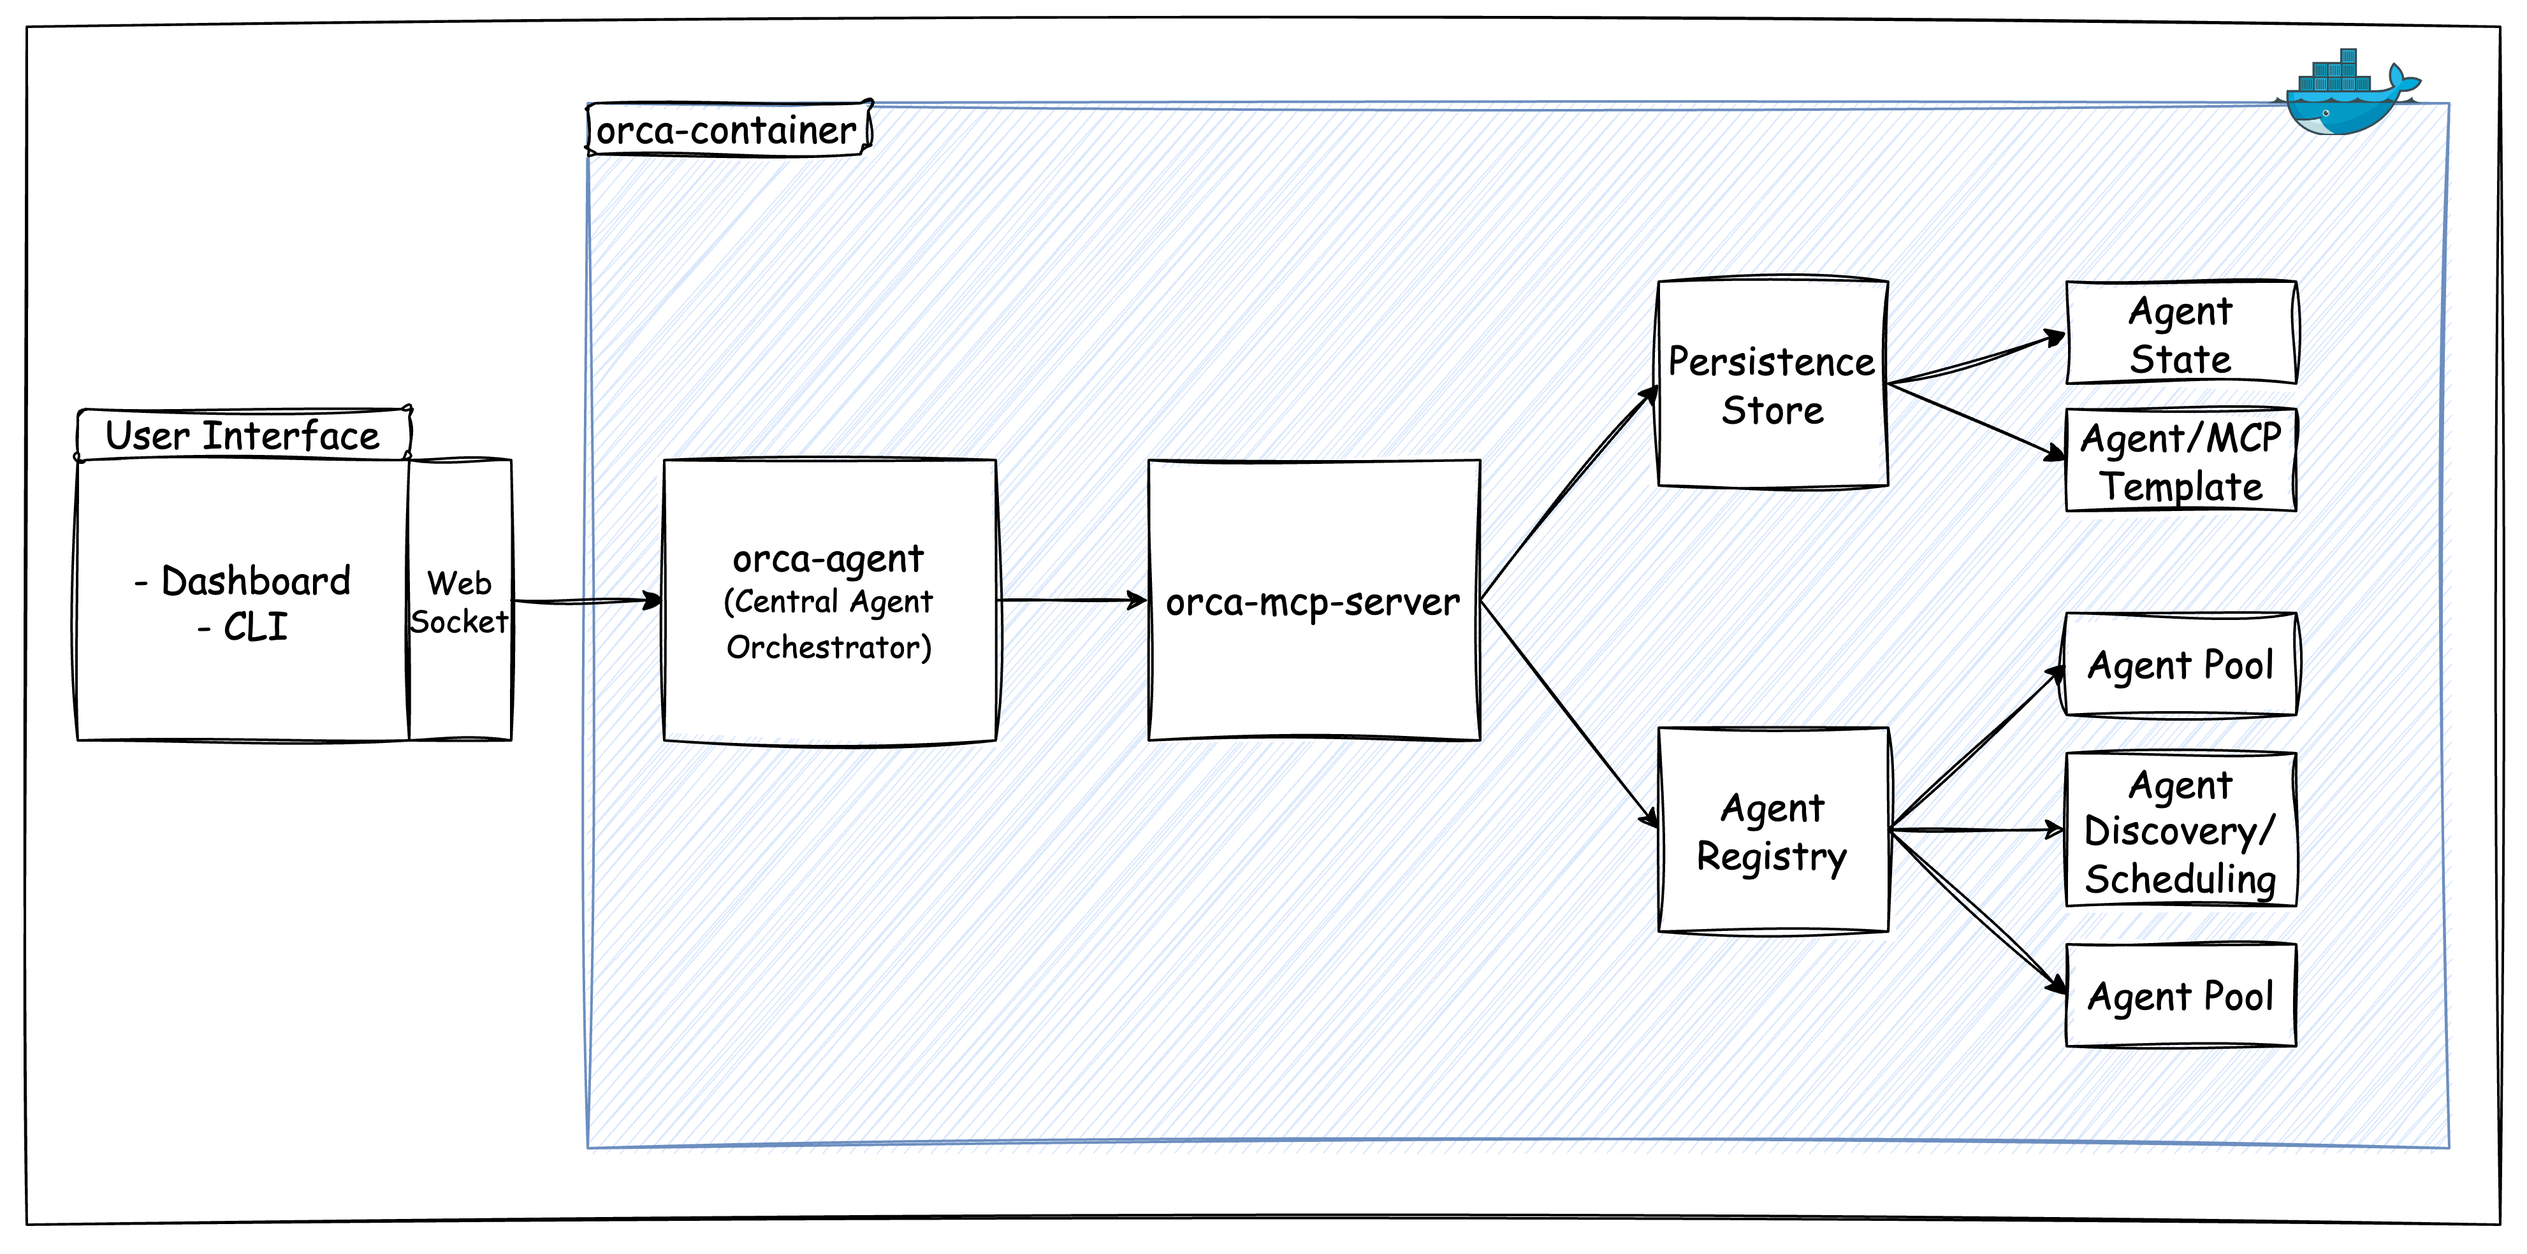
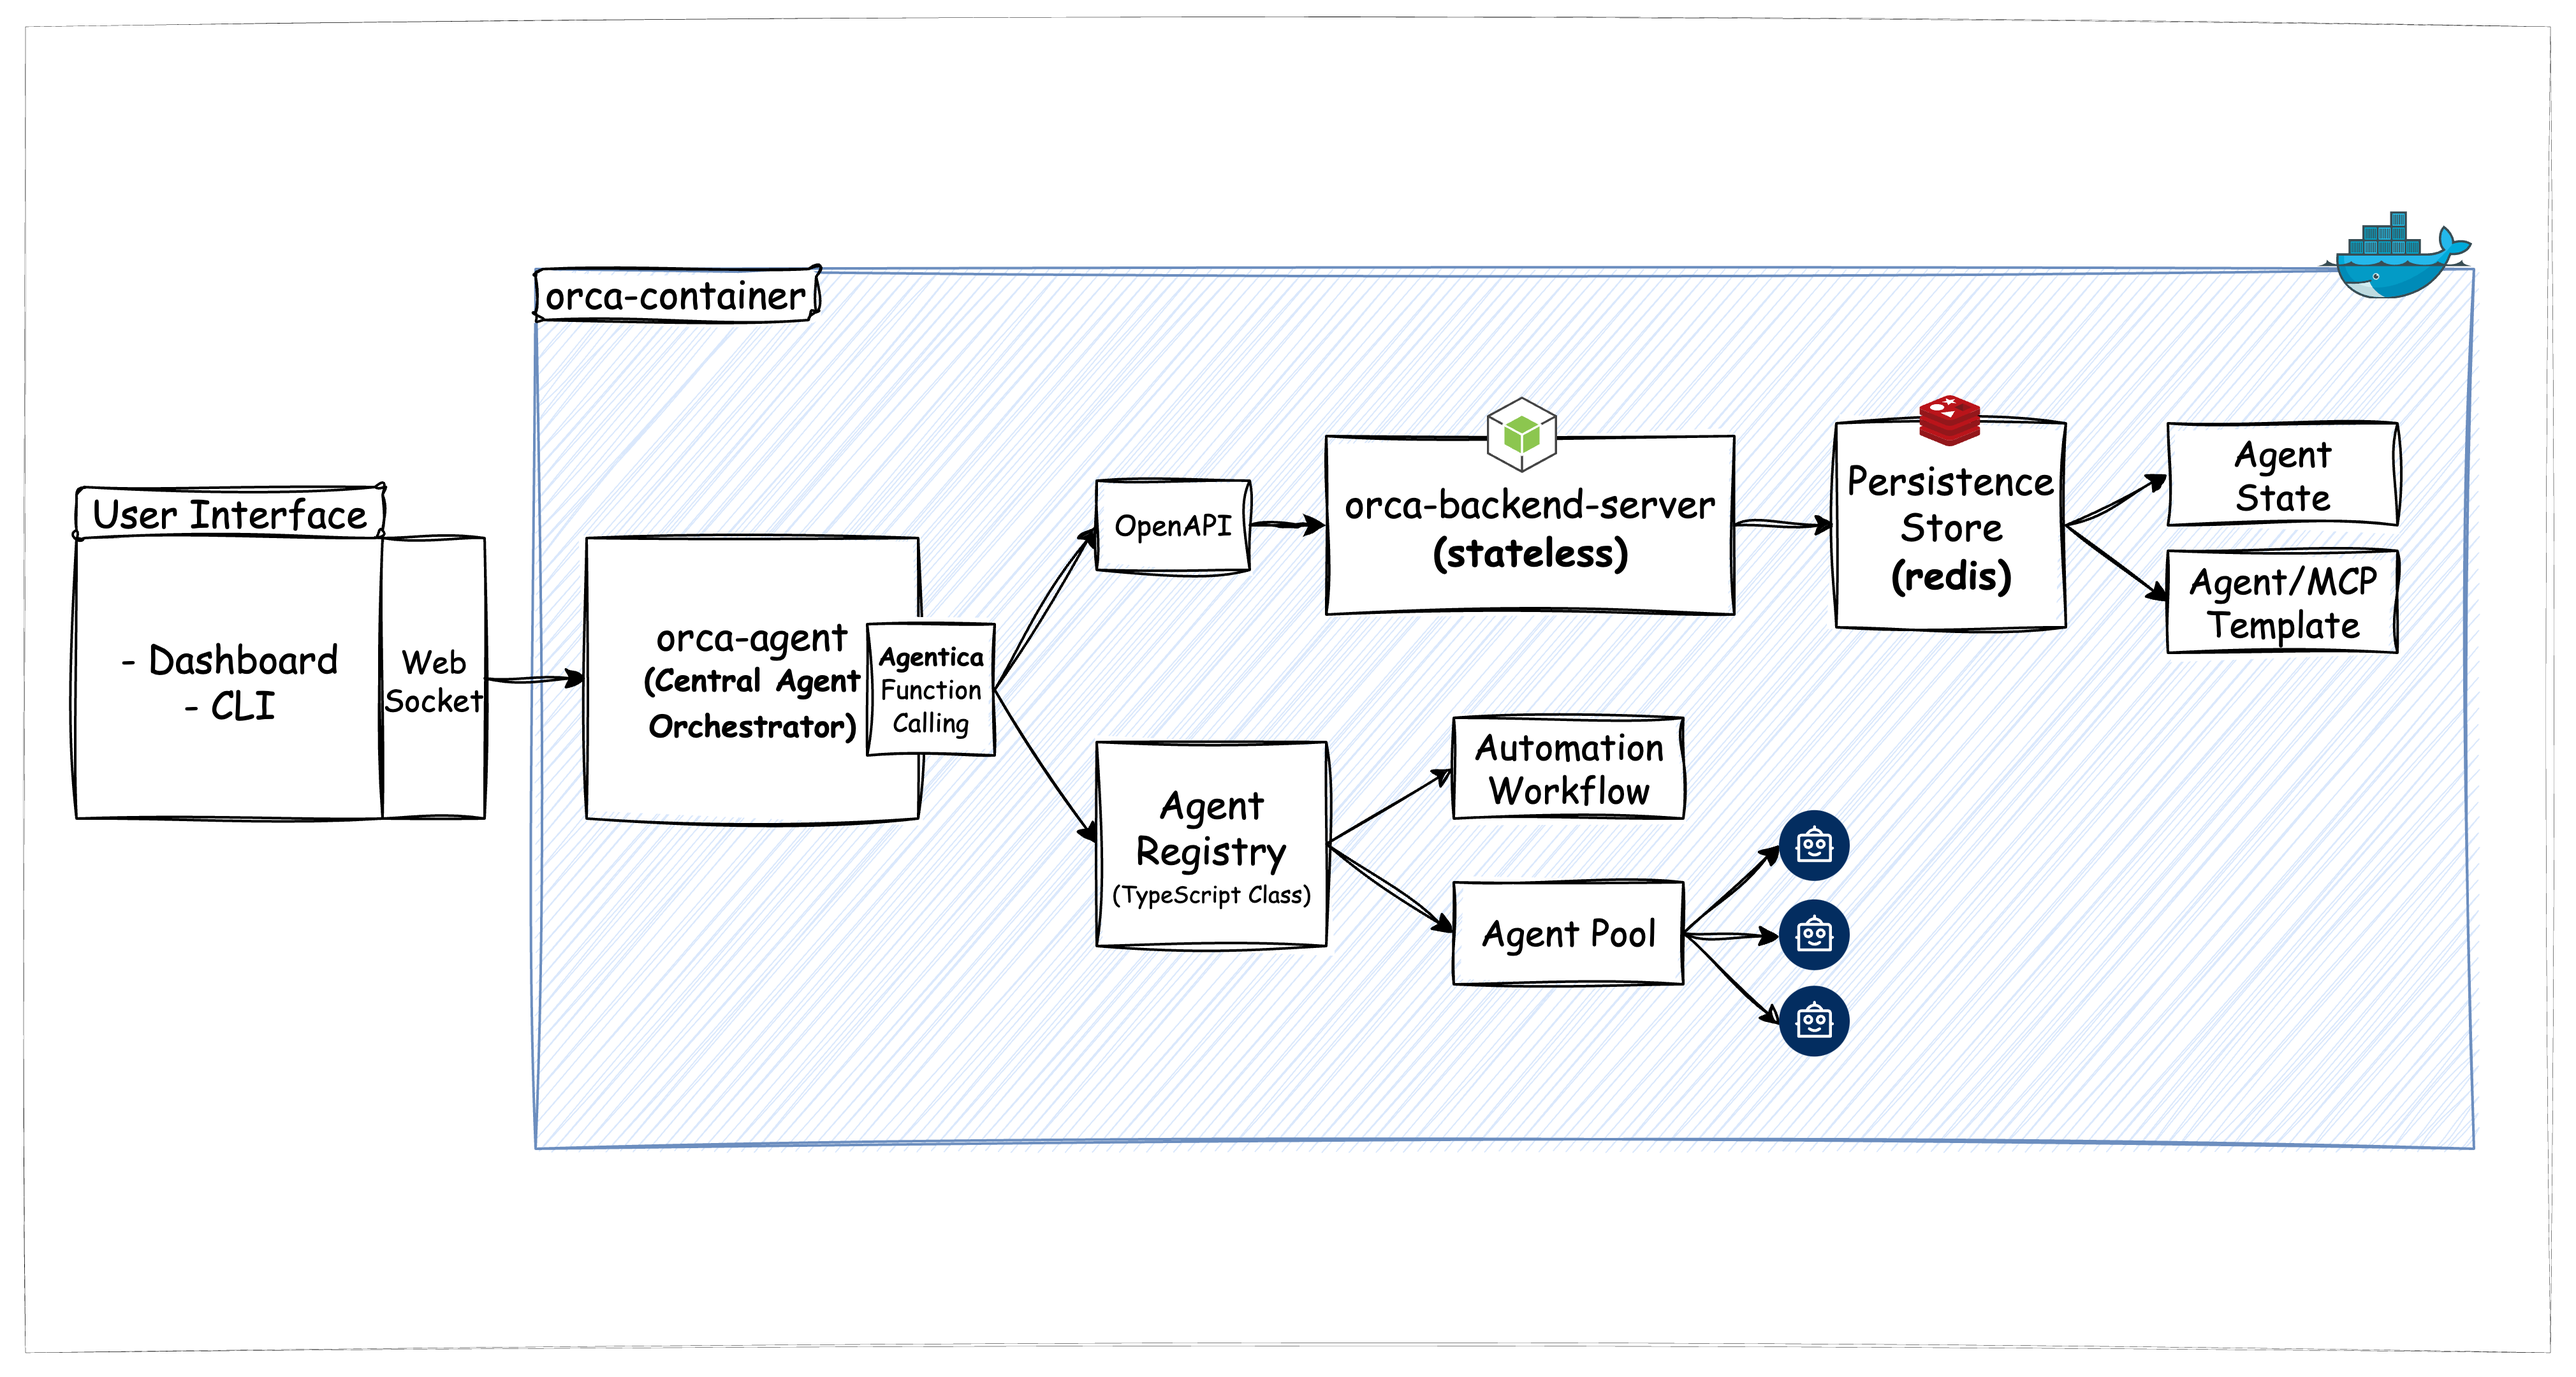
[agent, wip] add systemPrompt for orca (#5)
* [agent] add systemPrompt to enforce fully qualified function paths and clarify multi-agent routing logic

* [agent] add prompt-level comments to enhance argument validation in LLM function calling

* [docs] add diagram

---------

diff --git a/packages/orca-agent/src/tools.ts b/packages/orca-agent/src/tools.ts
@@ -2,10 +2,71 @@ import { Agentica } from "@agentica/core";
 import { OpenAI } from "openai";
 import { getRedisStore } from './memory';
 
+/**
+ * DTO for creating a new agent.
+ *
+ * Used when the orchestrator (e.g., Orca) wants to create a new functional agent.
+ * - `name`: Unique identifier for the agent (should match '@name' in user instruction).
+ * - `prompt`: Task description or expertise the agent will handle.
+ */
+type CreateAgentInput = {
+  name: string;
+  prompt: string;
+};
+
+/**
+ * DTO for deleting an agent.
+ *
+ * Used when the orchestrator wants to remove an agent from memory and Redis.
+ */
+type DeleteAgentInput = {
+  name: string;
+};
+
+/**
+ * DTO for sending a message to a single agent.
+ *
+ * Used only when exactly one agent (e.g., "@agent1") is mentioned in the user’s request.
+ * Avoid using this when multiple agents are involved; use `multiAgentRoute` instead.
+ */
+type DirectRouteInput = {
+  name: string;
+  message: string;
+};
+
+/**
+ * DTO for executing a coordinated workflow across multiple agents.
+ *
+ * Required when the user's request references two or more agents (e.g., "@agent1", "@agent2"),
+ * or when a sequence of steps involving delegation or chaining is needed.
+ */
+type MultiAgentRouteParams = {
+  agentName: string[];
+};
+
 const agentMap = new Map<string, Agentica<"chatgpt">>();
 
-export class AgentManagerTool {
-  async createAgent(input: { name: string; prompt: string }) {
+/**
+ * Tool class for managing the lifecycle and 1:1 communication of individual AI agents.
+ *
+ * - Handles creation, deletion, listing, and direct messaging of agents.
+ * - Supports targeted, single-agent interactions for isolated tasks or queries.
+ * - Stores and retrieves agent prompts from Redis for persistence.
+ * 
+ * Usage by orchestrator AI (e.g., Orca):
+ * - Use `createAgent` and `deleteAgent` to manage agent lifecycle.
+ * - Use `directRouteToAgent` only when the user instruction references exactly one agent.
+ */
+export class AgentLifecycleTool {
+  /**
+   * Create a new agent with the given name and prompt.
+   *
+   * Constructs an Agentica agent with a predefined system prompt and registers it in memory and Redis.
+   *
+   * @param input Agent creation data
+   * @returns Name of the created agent (with confirmation)
+   */
+  async createAgent(input: CreateAgentInput) {
     const openai = new OpenAI({ apiKey: process.env.OPENAI_API_KEY });
     const redis = getRedisStore(process.env.REDIS_URL || 'redis://localhost:6379');
     await redis.connect();
@@ -40,7 +101,15 @@ export class AgentManagerTool {
     return input.name + " 생성됨"
   }
 
-  async deleteAgent(input: { name: string }) {
+  /**
+   * Delete an agent by name.
+   *
+   * Cleans up both the in-memory agent map and the Redis record.
+   *
+   * @param input Deletion data
+   * @returns Name of the deleted agent (with confirmation)
+   */
+  async deleteAgent(input: DeleteAgentInput) {
     const redis = getRedisStore(process.env.REDIS_URL || 'redis://localhost:6379');
     await redis.connect();
 
@@ -50,9 +119,19 @@ export class AgentManagerTool {
     return input.name + " 삭제됨"
   }
 
-  async routeToAgent(input: { name: string; message: string }) {
+  /**
+   * Directly message a single agent.
+   *
+   * This is a one-to-one interaction method used only when the user instruction involves exactly one agent.
+   * Do not use this when user input contains multiple '@agent' mentions or implies step chaining.
+   *
+   * @param input Includes target agent name and message
+   * @returns The agent's response
+   */
+  async directRouteToAgent(input: DirectRouteInput) {
     const agent = agentMap.get(input.name);
     if (!agent) {
+      console.log(`[AgentManager] Agent ${input.name} not found`);
       return `[AgentManager] Agent ${input.name} not found`;
     }
     const answers = await agent.conversate(input.message);
@@ -61,6 +140,13 @@ export class AgentManagerTool {
     return result;
   }
 
+  /**
+   * List all currently registered agents.
+   *
+   * Retrieves agent names and their system prompts from Redis.
+   *
+   * @returns Formatted string listing all registered agents
+   */
   async listAgents() {
     const redis = getRedisStore(process.env.REDIS_URL || 'redis://localhost:6379');
     await redis.connect();
@@ -69,5 +155,42 @@ export class AgentManagerTool {
     const result = Object.entries(agents).map(([name, prompt]) => `🤖 ${name}: ${prompt}`).join('\n');
     console.log(result);
     return result;
+  }
+}
+/**
+ * Tool class for orchestrating workflows across multiple agents.
+ *
+ * - Designed for multi-step processes where each step may involve a different agent.
+ * - Enables structured task routing, coordination, or delegation across agents.
+ * - Not intended for direct, single-agent messaging.
+ * 
+ * Usage by orchestrator AI (e.g., Orca):
+ * - Use `multiAgentRoute` when the user request references two or more agents or implies chaining.
+ * - Extract all agent mentions and pass them as a list to this method.
+ */
+export class WorkflowTool {
+  /**
+   * Execute a multi-agent workflow.
+   *
+   * This method should be used when the user's request contains multiple agent mentions (e.g., "@agent1", "@agent2")
+   * or implies coordination, sequential delegation, or chained logic.
+   * The orchestrator (e.g., Orca) must extract all mentioned agents and pass them to this method.
+   *
+   * @param params Includes a list of agent names participating in the workflow
+   * @returns Workflow execution result
+   */
+  async multiAgentRoute(params: MultiAgentRouteParams): Promise<any> {
+    const context: Record<string, any> = {};
+    const results: any[] = [];
+
+    for (const step of params.agentName) {
+      console.log("🔍 Received step:", step);
+    }
+
+    return {
+      success: true,
+      results,
+      context,
+    };
   }
 }

diff --git a/packages/orca-agent/src/systemPrompt.ts b/packages/orca-agent/src/systemPrompt.ts
@@ -1,0 +1,53 @@
+export const ORCA_SYSTEM_PROMPT = `
+You are Orca, a central AI agent orchestrator that coordinates multiple functional agents and tools via function calls. Your goal is to understand the user's task, plan a workflow, and delegate sub-tasks to the right agents or tools.
+
+## 🔧 Available Capabilities
+
+You can invoke the following functions to interact with agents or perform orchestration:
+
+1. orca:agent.lifecycle/createAgent(name: string, prompt: string): Create a new agent with the given name and purpose.
+2. orca:agent.lifecycle/deleteAgent(name: string): Delete a previously created agent.
+3. orca:agent.lifecycle/listAgents(): List all currently registered agents.
+4. orca:agent.lifecycle/directRouteToAgent(name: string, message: string): Send a message to a specific agent and return the response.
+5. orca:agent.workflow/multiAgentRoute(agentNames: string[]): Plan a multi-step task involving multiple agents. Each string in agentNames is an agent name.
+
+## 🧭 Your Role
+
+- You do not answer user questions directly.
+- Instead, you decompose the user's request into steps and route each step to a capable agent.
+- You MUST use "orca:agent.workflow/multiAgentRoute" if:
+  - The user mentions two or more agent names prefixed with "@" in the same sentence or task.
+  - The task involves coordination, chaining, or a sequence of actions between agents.
+  - The user uses connectors like "then", "and", "다음으로", "그 결과를", etc.
+- Even if the steps look sequential or split into sub-tasks, if the user's request includes two or more agents marked with "@", you MUST treat it as a multi-agent coordination task.
+- NEVER call orca:agent.lifecycle/createAgent or orca:agent.lifecycle/directRouteToAgent in a chain if two or more "@" agents appear. Use orca:agent.workflow/multiAgentRoute instead.
+- Your job is to compose a cooperative workflow using orca:agent.workflow/multiAgentRoute, not to execute the steps separately.
+- NEVER call multiple orca:agent.lifecycle/directRouteToAgent or orca:agent.lifecycle/createAgent calls sequentially for such cases. Always use orca:agent.workflow/multiAgentRoute to handle multi-agent workflows.
+- When using orca:agent.workflow/multiAgentRoute, extract all mentioned agents prefixed with "@" and pass them as a string array, e.g., ["@agent1", "@agent2"].
+- If two or more agents prefixed with '@' appear, NEVER use orca:agent.lifecycle/createAgent or orca:agent.lifecycle/listAgents directly. You must use orca:agent.workflow/multiAgentRoute to coordinate everything.
+
+## 🧪 Examples
+
+- User: "workflow를 만들어서 multiAgentRoute를 사용할껀데, @agent1에게 오늘 매출을 물어보고, @agent2에게 그 결과를 표로 정리해줘"
+  → ✅ Call: orca:agent.workflow/multiAgentRoute(["@agent1", "@agent2"])
+
+- User: "workflow를 만들어서 multiAgentRoute를 사용할껀데, @analyst에게 보고서 쓰라고 하고 @notion에 업로드 시켜줘"
+  → ✅ Call: orca:agent.workflow/multiAgentRoute(["@analyst", "@notion"])
+
+- ❌ Do NOT do this:
+  - orca:agent.lifecycle/createAgent(agent1)
+  - orca:agent.lifecycle/directRouteToAgent(agent1)
+  - orca:agent.lifecycle/directRouteToAgent(agent2)
+
+- If the user only mentions one agent (e.g., "@agent1에게 질문해줘"), use orca:agent.lifecycle/directRouteToAgent.
+- orca:agent.lifecycle/directRouteToAgent should only be used when a single agent is involved. If more than one "@" agent is mentioned, use orca:agent.workflow/multiAgentRoute instead.
+
+- Use orca:agent.lifecycle/createAgent, orca:agent.lifecycle/deleteAgent, or orca:agent.lifecycle/listAgents only when managing agents directly.
+
+## 🧠 Important
+
+- You are the only entity that can create, delete, or coordinate agents.
+- Never hardcode responses. Always use function calling to act.
+- Prefer orca:agent.workflow/multiAgentRoute when multiple agents are involved in any form.
+- If two or more agents prefixed with '@' appear, NEVER use orca:agent.lifecycle/createAgent or orca:agent.lifecycle/listAgents directly. You must use orca:agent.workflow/multiAgentRoute to coordinate everything.
+`;

diff --git a/packages/orca-agent/src/main.ts b/packages/orca-agent/src/main.ts
@@ -1,7 +1,8 @@
 import { Agentica } from "@agentica/core";
-import { AgentManagerTool } from "./tools";
+import { AgentLifecycleTool, WorkflowTool } from "./tools";
 import { AgenticaRpcService, IAgenticaRpcListener, IAgenticaRpcService } from "@agentica/rpc";
 import { Driver, WebSocketServer } from "tgrid";
+import {ORCA_SYSTEM_PROMPT} from './systemPrompt'
 import typia from "typia";
 import dotenv from "dotenv";
 
@@ -28,12 +29,23 @@ async function main() {
       },
       controllers: [
         {
-          name: "orca-agent",
+          name: "orca:agent.lifecycle",
           protocol: "class",
-          application: typia.llm.application<AgentManagerTool, "chatgpt">(),
-          execute: new AgentManagerTool(),
+          application: typia.llm.application<AgentLifecycleTool, "chatgpt">(),
+          execute: new AgentLifecycleTool(),
+        },
+        {
+          name: "orca:agent.workflow",
+          protocol: "class",
+          application: typia.llm.application<WorkflowTool, "chatgpt">(),
+          execute: new WorkflowTool(),
         },
       ],
+      config: {
+        systemPrompt: {
+          initialize: () => ORCA_SYSTEM_PROMPT,
+        },
+      },
     });
 
     const listener: Driver<IAgenticaRpcListener> = acceptor.getDriver();

diff --git a/README.md b/README.md
@@ -118,6 +118,6 @@ graph TD
 | Version | Features                                              |
 | ------- | ----------------------------------------------------- |
 | 0.1     | Manual agent creation/removal, logs, template saving  |
-| 0.2     | Prompt-based agent orchestration, MCP/ACP integration |
+| 0.2     | Prompt-based agent orchestration                      |
 | 0.3     | YAML/JSON agent deployment, multi-agent planning      |
 | 0.4+    | UI dashboard and advanced visualization               |

diff --git a/packages/orca-agent/README.md b/packages/orca-agent/README.md
@@ -1,5 +1,6 @@
 # orca-agent
 
 ## agentica
+- https://wrtnlabs.io/agentica/docs/concepts/function-calling/#orchestration-strategy
 - https://github.com/wrtnlabs/agentica/blob/1184d8ffdd86a91ba5dacaba18b081bb1bab38e8/packages/core/src/Agentica.ts#L57
 - https://github.com/wrtnlabs/agentica/blob/1184d8ffdd86a91ba5dacaba18b081bb1bab38e8/website/content/docs/core/index.mdx#agenticacore
